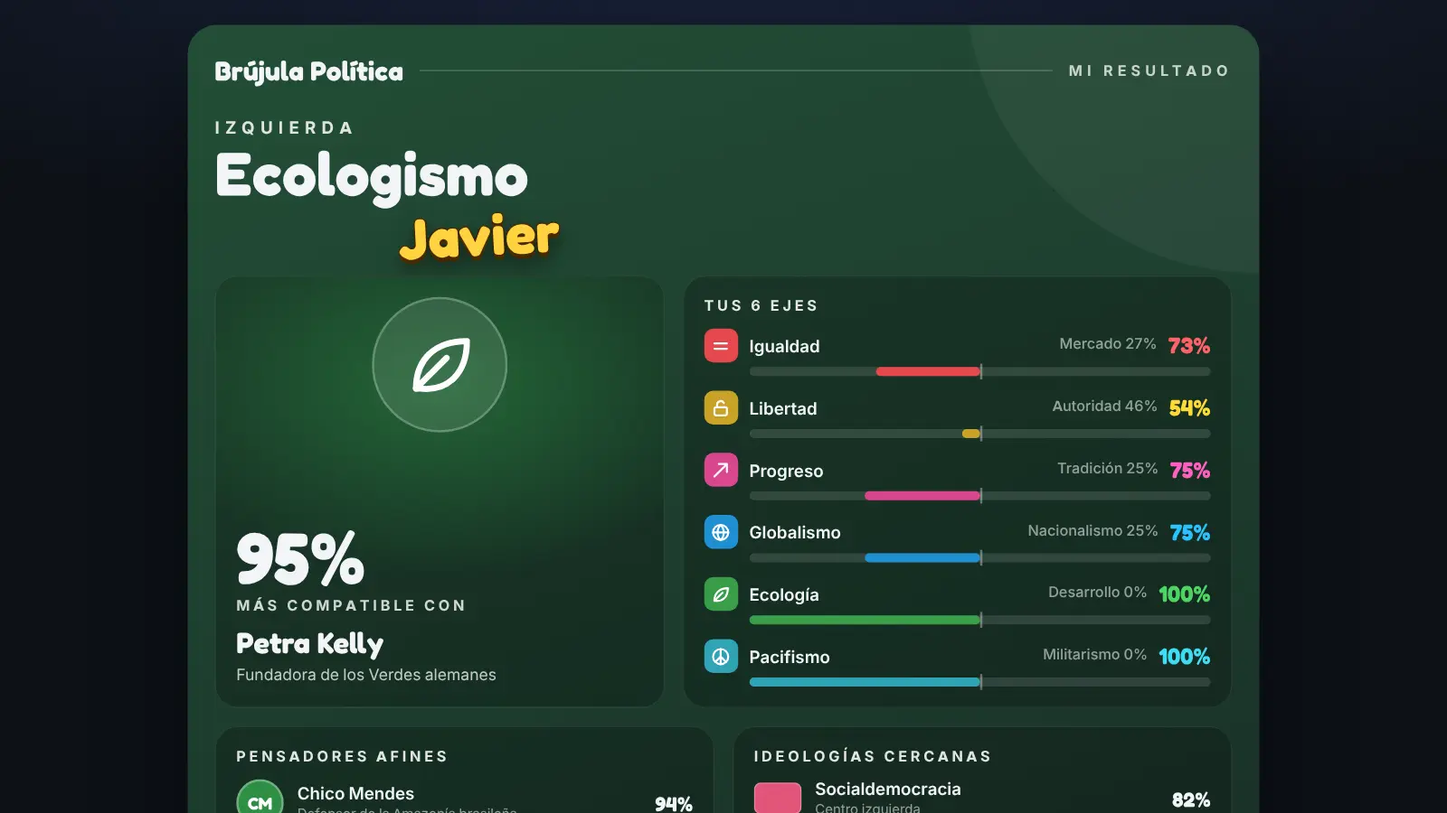
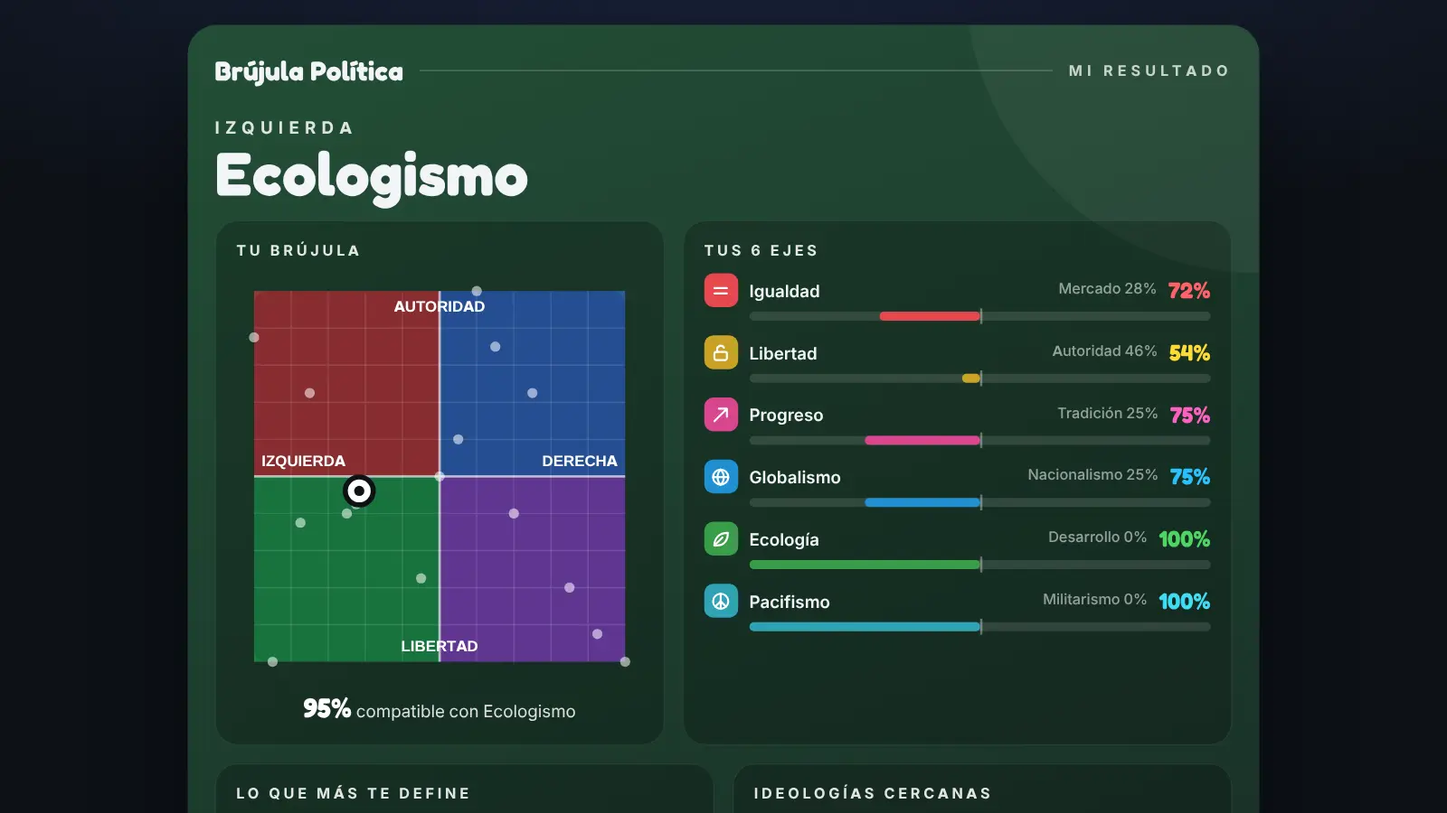
Brújula Política: brújula dentro de la tarjeta y 'De acuerdo' casi como 'Muy de acuerdo'
- De acuerdo / En desacuerdo valen 1.5 de 2; Neutral queda en el medio
  (un poco de ambos).
- Luz y agua: pregunta nueva de Estado y empresas privadas juntos.
- La tarjeta ya no lleva nombres (ni el del jugador ni pensadores): en su
  lugar la brújula y 'Lo que más te define'.

Claude-Session: https://claude.ai/code/session_01WWHYSR6KGzvo1D5ZSPkN5w

diff --git a/brujula-politica/index.html b/brujula-politica/index.html
@@ -88,17 +88,9 @@
   .card__head { position: relative; margin-top: 26px; }
   .card__lado { letter-spacing: 5px; font-weight: 700; font-size: 15px; text-transform: uppercase; color: rgba(255,255,255,.85); }
   .card__ideo { font-size: clamp(32px, 7vw, 54px); line-height: 1.02; margin-top: 4px; }
-  .card__name { position: relative; z-index: 2; display: inline-block; margin: -4px 0 -8px 18%; font: 700 clamp(30px, 7vw, 50px) 'Fred'; color: #ffd23f; transform: rotate(-3deg);
-    -webkit-text-stroke: 2px #4a2a00; paint-order: stroke fill; text-shadow: 0 4px 0 #4a2a00, 0 8px 18px rgba(0,0,0,.5); }
   .card__grid { position: relative; display: grid; grid-template-columns: minmax(0, .9fr) minmax(0, 1.1fr); gap: 16px; margin-top: 14px; }
   .box { background: rgba(0,0,0,.22); border: 1px solid rgba(255,255,255,.08); border-radius: 20px; padding: 18px; }
   .box h4 { letter-spacing: 3px; font-size: 13px; text-transform: uppercase; font-weight: 700; margin-bottom: 12px; color: rgba(255,255,255,.88); }
-  .match { display: flex; flex-direction: column; justify-content: flex-end; min-height: 300px; background: radial-gradient(90% 60% at 50% 25%, color-mix(in srgb, var(--c) 55%, transparent), transparent 75%), rgba(0,0,0,.22); }
-  .match__emb { width: 120px; height: 120px; margin: 0 auto auto; padding: 22px; border-radius: 50%; background: rgba(255,255,255,.1); border: 2px solid rgba(255,255,255,.25); color: #fff; }
-  .match__pct { font: 700 64px/1 'Fred'; margin-top: 20px; }
-  .match small { letter-spacing: 3px; font-weight: 700; font-size: 13px; text-transform: uppercase; color: rgba(255,255,255,.8); }
-  .match b { display: block; font: 700 26px 'Fred'; margin-top: 8px; }
-  .match p { color: rgba(255,255,255,.75); font-size: 14px; line-height: 1.45; margin-top: 4px; }
   .ax { display: grid; gap: 13px; }
   .ax__row { display: grid; grid-template-columns: 30px minmax(0, 1fr) auto; align-items: center; gap: 10px; }
   .ax__ic { width: 30px; height: 30px; border-radius: 8px; background: var(--k); display: grid; place-items: center; color: #fff; }
@@ -115,15 +107,18 @@
   .lst b { font-weight: 600; font-size: 15px; line-height: 1.2; }
   .lst b small { display: block; color: rgba(255,255,255,.55); font-weight: 400; font-size: 12px; margin-top: 2px; }
   .lst strong { font: 700 18px 'Fred'; }
-  .av { width: 42px; height: 42px; border-radius: 50%; display: grid; place-items: center; font: 700 15px 'Fred'; color: #fff; background: var(--k); border: 2px solid rgba(255,255,255,.3); }
+  .cpct { text-align: center; margin-top: 10px; font-size: 15px; color: rgba(255,255,255,.85); }
+  .cpct b { font: 700 24px 'Fred'; color: #fff; }
+  .lst--def div { grid-template-columns: 30px minmax(0, 1fr) auto; }
+  .lst--def b { font-weight: 500; font-size: 14px; line-height: 1.35; }
   .chip { width: 42px; height: 28px; border-radius: 6px; background: var(--k); border: 1px solid rgba(255,255,255,.3); }
   .card__foot { position: relative; display: flex; justify-content: space-between; gap: 10px; flex-wrap: wrap; margin-top: 18px; padding-top: 14px; border-top: 1px solid rgba(255,255,255,.2); letter-spacing: 4px; font-weight: 700; font-size: 12px; color: rgba(255,255,255,.75); }
 
-  .more { display: grid; grid-template-columns: minmax(0, 1fr) minmax(0, 1fr); gap: 16px; margin-top: 18px; }
+  .more { margin-top: 18px; }
   .panel { background: var(--bg2); border: 1px solid var(--line); border-radius: var(--r); padding: 18px; }
   .panel h3 { font-size: 19px; margin-bottom: 4px; }
   .panel > p { font-size: 14px; color: var(--mut); margin-bottom: 12px; line-height: 1.45; }
-  .compass { width: 100%; max-width: 340px; display: block; margin: 0 auto; }
+  .compass { width: 100%; max-width: 360px; display: block; margin: 0 auto; }
   .spec { position: relative; height: 18px; border-radius: 18px; margin: 30px 0 10px;
     background: linear-gradient(90deg, #b91c1c, #ef4444 20%, #f472b6 36%, #a3a3a3 50%, #60a5fa 64%, #2563eb 80%, #1e3a8a); }
   .spec i { position: absolute; top: 50%; width: 26px; height: 26px; margin: -13px 0 0 -13px; border-radius: 50%; background: #fff; border: 4px solid #0d1117; box-shadow: 0 0 0 2px #fff, 0 4px 14px rgba(0,0,0,.5); transition: left .8s cubic-bezier(.2,.8,.2,1); }
@@ -138,14 +133,8 @@
 
   @media (max-width: 720px) {
     .card { padding: 20px 16px 16px; border-radius: 22px; }
-    .card__grid, .card__low, .more { grid-template-columns: 1fr; }
-    .match { min-height: 0; flex-direction: row; flex-wrap: wrap; align-items: center; gap: 0 16px; }
-    .match__emb { width: 84px; height: 84px; padding: 16px; margin: 0; }
-    .match__pct { font-size: 52px; margin: 0; }
-    .match > div { flex: 1; min-width: 150px; }
-    .card__name { margin-left: 8%; }
-  }
-  @media (max-width: 420px) { .ax__lbl span { display: none; } }
+    .card__grid, .card__low { grid-template-columns: 1fr; }
+            @media (max-width: 420px) { .ax__lbl span { display: none; } }
   @media (max-width: 380px) {
     .wrap { padding: 16px 12px 32px; }
     .ans button { font-size: 15px; padding: 12px; }
@@ -166,12 +155,10 @@
         <path d="M50 14l9 36-9 36-9-36z" fill="#fff"/><path d="M50 14l9 36H41z" fill="#ef4444"/><circle cx="50" cy="50" r="5" fill="#0d1117"/>
       </svg>
       <h1>Brújula Política</h1>
-      <p>Responde 60 frases sobre economía, libertad, delitos y castigos, sociedad, el mundo, el planeta y la guerra. Al final verás tu ideología, tu lado político y con qué pensadores coincides más.</p>
+      <p>Responde 60 frases sobre economía, libertad, delitos y castigos, sociedad, el mundo, el planeta y la guerra. Al final verás tu ideología, tu lado político, tu lugar en la brújula y lo que más te define.</p>
       <div class="facts"><span>60 preguntas</span><span>6 ejes</span><span>16 ideologías</span><span>Unos 10 minutos</span></div>
     </div>
     <div class="start">
-      <label for="name">Tu nombre (sale en la tarjeta)</label>
-      <input id="name" maxlength="18" autocomplete="off" placeholder="Ej. Marco">
       <button class="btn btn--main" id="go">Empezar el test</button>
       <button class="btn" id="resume" hidden>Seguir donde me quedé</button>
     </div>
@@ -206,11 +193,6 @@
         <div class="spec" id="spec"><b></b><i></i></div>
         <div class="spec__lbl"><span>Extrema izq.</span><span>Izquierda</span><span>Centro</span><span>Derecha</span><span>Extrema der.</span></div>
         <p class="why" id="why"></p>
-      </div>
-      <div class="panel">
-        <h3>Brújula</h3>
-        <p>Izquierda o derecha en la economía, y autoridad o libertad en el gobierno. Los puntos chicos son las ideologías.</p>
-        <svg class="compass" id="compass" viewBox="0 0 320 320" role="img" aria-label="Tu posición en la brújula política"></svg>
       </div>
     </div>
     <div class="acts">
@@ -260,11 +242,11 @@ const Q = [
   ['Las empresas privadas administran mejor las cosas que el Estado.', { e: 1 }],
   ['Los que más ganan deberían pagar un porcentaje de impuestos mucho mayor que el resto.', { e: -1 }],
   ['El libre mercado es la mejor forma de sacar a la gente de la pobreza.', { e: 1 }],
-  ['El agua, la luz y el gas deberían ser siempre del Estado, no de empresas privadas.', { e: -1 }],
+  ['El agua, la luz y el gas deberían ser sólo del Estado, sin ninguna empresa privada.', { e: -1 }],
   ['Si tengo dos celulares y alguien no tiene ninguno, debería regalarle uno.', { e: -1 }],
   ['Si tuviera una empresa, el Estado no debería decirme cuánto pagarles a mis trabajadores.', { e: 1, a: -.3 }],
   ['Las minas, las grandes empresas y las tierras deberían pasar a manos del pueblo.', { e: -1, a: .3 }],
-  ['Cada uno debería poder dejarle toda su fortuna a sus hijos sin pagar impuestos por eso.', { e: 1 }],
+  ['Lo mejor para la luz y el agua es que el Estado y empresas privadas las manejen juntos, con reglas claras.', { e: .5 }],
   ['Si tuviera 10 casas, regalaría algunas a familias que no tienen dónde vivir.', { e: -1 }],
   ['Si gané mi plata trabajando duro, es justo quedarme con casi toda, aunque otros tengan mucho menos.', { e: 1 }],
   ['El Estado debería fijar el precio de los productos básicos como el arroz o el pan.', { e: -1, a: .3 }],
@@ -330,65 +312,64 @@ const ORDER = (() => {
   for (let r = 0; out.length < Q.length; r++) for (const g of groups) if (g[r] !== undefined) out.push(g[r]);
   return out;
 })();
+// "De acuerdo" cuenta casi como "Muy de acuerdo"; "Neutral" queda justo en el medio (un poco de ambos)
 const OPTS = [
   ['Muy de acuerdo', 2, '#22c55e'],
-  ['De acuerdo', 1, '#86efac'],
-  ['Neutral / no sé', 0, '#cbd5e1'],
-  ['En desacuerdo', -1, '#fca5a5'],
+  ['De acuerdo', 1.5, '#86efac'],
+  ['Neutral / un poco de ambos', 0, '#cbd5e1'],
+  ['En desacuerdo', -1.5, '#fca5a5'],
   ['Muy en desacuerdo', -2, '#ef4444'],
 ];
 
 /* ---------- ideologías: posición en los 6 ejes ---------- */
 const IDEOS = [
   { id: 'comunismo', n: 'Comunismo', lado: 'Extrema izquierda', c: '#c81e1e', ic: 'aut', p: { e: -1, a: .75, s: 0, n: .2, v: .4, m: .5 },
-    d: 'Quiere abolir la propiedad privada de empresas y tierras: todo es del Estado o de la comunidad, y un partido único dirige la economía.',
-    f: [['Karl Marx', 'Filósofo y economista alemán'], ['Vladímir Lenin', 'Líder de la Revolución rusa']] },
+    d: 'Quiere abolir la propiedad privada de empresas y tierras: todo es del Estado o de la comunidad, y un partido único dirige la economía.' },
   { id: 'anarquismo', n: 'Anarquismo', lado: 'Extrema izquierda', c: '#1f1f1f', ic: 'lib', p: { e: -.9, a: -1, s: -.7, n: -.8, v: -.4, m: -.8 },
-    d: 'Rechaza el Estado y toda autoridad: propone comunidades libres que se organizan solas y comparten lo que producen.',
-    f: [['Piotr Kropotkin', 'Pensador anarquista ruso'], ['Mijaíl Bakunin', 'Revolucionario ruso']] },
+    d: 'Rechaza el Estado y toda autoridad: propone comunidades libres que se organizan solas y comparten lo que producen.' },
   { id: 'socialismo', n: 'Socialismo democrático', lado: 'Izquierda', c: '#e0313a', ic: 'igual', p: { e: -.75, a: -.25, s: -.5, n: -.1, v: -.3, m: -.5 },
-    d: 'Busca que los trabajadores y el Estado controlen los sectores clave de la economía, pero mediante elecciones y con libertades.',
-    f: [['José Carlos Mariátegui', 'Pensador socialista peruano'], ['Salvador Allende', 'Presidente de Chile (1970-1973)']] },
+    d: 'Busca que los trabajadores y el Estado controlen los sectores clave de la economía, pero mediante elecciones y con libertades.' },
   { id: 'ecologismo', n: 'Ecologismo', lado: 'Izquierda', c: '#2f8f46', ic: 'eco', p: { e: -.5, a: -.2, s: -.6, n: -.5, v: -1, m: -.85 },
-    d: 'Pone al planeta primero: frenar el cambio climático, proteger bosques y ríos y repartir mejor la riqueza.',
-    f: [['Petra Kelly', 'Fundadora de los Verdes alemanes'], ['Chico Mendes', 'Defensor de la Amazonía brasileña']] },
+    d: 'Pone al planeta primero: frenar el cambio climático, proteger bosques y ríos y repartir mejor la riqueza.' },
   { id: 'nacpop', n: 'Nacionalismo de izquierda', lado: 'Izquierda', c: '#b4462a', ic: 'nac', p: { e: -.7, a: .45, s: .15, n: .8, v: .3, m: .35 },
-    d: 'Mezcla la defensa de lo nacional con un Estado fuerte que nacionaliza recursos y reparte la riqueza.',
-    f: [['Juan Velasco Alvarado', 'Presidente del Perú (1968-1975)'], ['Lázaro Cárdenas', 'Presidente de México (1934-1940)']] },
+    d: 'Mezcla la defensa de lo nacional con un Estado fuerte que nacionaliza recursos y reparte la riqueza.' },
   { id: 'socialdemocracia', n: 'Socialdemocracia', lado: 'Centro izquierda', c: '#e2557a', ic: 'igual', p: { e: -.45, a: -.15, s: -.4, n: -.3, v: -.3, m: -.3 },
-    d: 'Acepta el mercado, pero con un Estado de bienestar grande: salud, educación y pensiones para todos, pagadas con impuestos.',
-    f: [['Olof Palme', 'Primer ministro de Suecia'], ['Clement Attlee', 'Primer ministro británico']] },
+    d: 'Acepta el mercado, pero con un Estado de bienestar grande: salud, educación y pensiones para todos, pagadas con impuestos.' },
   { id: 'progresismo', n: 'Liberalismo progresista', lado: 'Centro izquierda', c: '#d9468f', ic: 'prog', p: { e: -.1, a: -.55, s: -.8, n: -.6, v: -.35, m: -.35 },
-    d: 'Defiende las libertades personales, los derechos de las minorías y la apertura al mundo, con algo de ayuda del Estado.',
-    f: [['John Stuart Mill', 'Filósofo liberal inglés'], ['John Rawls', 'Filósofo de la justicia']] },
+    d: 'Defiende las libertades personales, los derechos de las minorías y la apertura al mundo, con algo de ayuda del Estado.' },
   { id: 'centro', n: 'Centrismo', lado: 'Centro', c: '#64748b', ic: 'igual', p: { e: 0, a: 0, s: 0, n: 0, v: 0, m: 0 },
-    d: 'Evita los extremos: toma ideas de la izquierda y de la derecha según cada problema y busca acuerdos.',
-    f: [['Aristóteles', 'Filósofo griego del justo medio'], ['Montesquieu', 'Pensador de la división de poderes']] },
+    d: 'Evita los extremos: toma ideas de la izquierda y de la derecha según cada problema y busca acuerdos.' },
   { id: 'libcentro', n: 'Centrismo liberal', lado: 'Centro', c: '#475569', ic: 'glob', p: { e: .4, a: -.2, s: -.2, n: -.5, v: .2, m: .1 },
-    d: 'Economía de mercado abierta al mundo, instituciones fuertes y cambios graduales, sin ir a ningún extremo.',
-    f: [['Alexis de Tocqueville', 'Pensador liberal francés'], ['Raymond Aron', 'Sociólogo liberal francés']] },
+    d: 'Economía de mercado abierta al mundo, instituciones fuertes y cambios graduales, sin ir a ningún extremo.' },
   { id: 'dc', n: 'Democracia cristiana', lado: 'Centro derecha', c: '#d97706', ic: 'trad', p: { e: .1, a: .2, s: .65, n: 0, v: 0, m: .1 },
-    d: 'Une valores cristianos y familia con una economía de mercado que también ayuda a los más pobres.',
-    f: [['Konrad Adenauer', 'Canciller de Alemania'], ['Alcide De Gasperi', 'Primer ministro de Italia']] },
+    d: 'Une valores cristianos y familia con una economía de mercado que también ayuda a los más pobres.' },
   { id: 'libclasico', n: 'Liberalismo clásico', lado: 'Centro derecha', c: '#ca8a04', ic: 'merc', p: { e: .7, a: -.6, s: .1, n: -.4, v: .4, m: -.1 },
-    d: 'Libertad individual, propiedad privada y libre comercio, con un Estado pequeño que asegure la ley y el orden.',
-    f: [['Adam Smith', 'Padre de la economía moderna'], ['John Locke', 'Filósofo de los derechos naturales']] },
+    d: 'Libertad individual, propiedad privada y libre comercio, con un Estado pequeño que asegure la ley y el orden.' },
   { id: 'conservadurismo', n: 'Conservadurismo', lado: 'Derecha', c: '#1d4ed8', ic: 'trad', p: { e: .5, a: .45, s: .8, n: .45, v: .35, m: .55 },
-    d: 'Valora la tradición, la familia, la religión y el orden; prefiere cambios lentos y un mercado libre.',
-    f: [['Edmund Burke', 'Padre del conservadurismo'], ['Winston Churchill', 'Primer ministro británico']] },
-  { id: 'libertarismo', n: 'Libertarismo', lado: 'Derecha', c: '#eab308', ic: 'lib', p: { e: .7, a: -.7, s: 0, n: -.3, v: .4, m: -.3 },
-    d: 'El Estado debe ser mínimo: bajos impuestos, libre mercado total y que cada adulto decida sobre su vida.',
-    f: [['Milton Friedman', 'Economista estadounidense'], ['Robert Nozick', 'Filósofo estadounidense']] },
+    d: 'Valora la tradición, la familia, la religión y el orden; prefiere cambios lentos y un mercado libre.' },
+  { id: 'libertarismo', n: 'Libertarismo', lado: 'Derecha', c: '#eab308', ic: 'lib', p: { e: .85, a: -.85, s: -.3, n: -.3, v: .4, m: -.3 },
+    d: 'El Estado debe ser mínimo: bajos impuestos, libre mercado total y que cada adulto decida sobre su vida.' },
   { id: 'ancap', n: 'Anarcocapitalismo', lado: 'Extrema derecha', c: '#a16207', ic: 'merc', p: { e: 1, a: -1, s: 0, n: -.6, v: .6, m: -.6 },
-    d: 'Propone eliminar el Estado y que todo, hasta la seguridad y la justicia, lo den empresas privadas en un mercado libre.',
-    f: [['Murray Rothbard', 'Economista estadounidense'], ['David Friedman', 'Economista estadounidense']] },
+    d: 'Propone eliminar el Estado y que todo, hasta la seguridad y la justicia, lo den empresas privadas en un mercado libre.' },
   { id: 'nacconserv', n: 'Nacionalismo conservador', lado: 'Derecha', c: '#1e3a8a', ic: 'nac', p: { e: .3, a: .7, s: .8, n: .9, v: .6, m: .8 },
-    d: 'La nación por encima de todo: fronteras firmes, tradición, ejército fuerte y un gobierno con mano firme.',
-    f: [['Charles de Gaulle', 'Presidente de Francia'], ['Otto von Bismarck', 'Canciller de Alemania']] },
+    d: 'La nación por encima de todo: fronteras firmes, tradición, ejército fuerte y un gobierno con mano firme.' },
   { id: 'autoritarismo', n: 'Nacionalismo autoritario', lado: 'Extrema derecha', c: '#0b1a4a', ic: 'aut', p: { e: .2, a: 1, s: 1, n: 1, v: .6, m: 1 },
-    d: 'Un líder o partido con todo el poder, sin oposición, que impone el orden, la tradición y la grandeza de la nación.',
-    f: [['Francisco Franco', 'Dictador de España (1939-1975)'], ['Charles Maurras', 'Pensador nacionalista francés']] },
+    d: 'Un líder o partido con todo el poder, sin oposición, que impone el orden, la tradición y la grandeza de la nación.' },
 ];
+const DEF = {
+  Igualdad: 'Quieres que la riqueza se reparta más y que el Estado ayude a los que menos tienen.',
+  Mercado: 'Confías en el libre mercado y en la empresa privada.',
+  Libertad: 'Defiendes la libertad de cada persona frente al Estado.',
+  Autoridad: 'Prefieres un Estado firme, con orden y castigos duros.',
+  Progreso: 'Apoyas los cambios en la sociedad y los nuevos derechos.',
+  'Tradición': 'Valoras la familia, la fe y las costumbres.',
+  Globalismo: 'Eres abierto al mundo, al comercio y a los extranjeros.',
+  Nacionalismo: 'Pones a tu país primero y quieres fronteras firmes.',
+  'Ecología': 'Para ti el planeta va antes que el crecimiento.',
+  Desarrollo: 'Para ti el crecimiento y las obras van primero.',
+  Pacifismo: 'Rechazas la guerra y prefieres gastar en educación.',
+  Militarismo: 'Quieres un ejército fuerte y listo para defender.',
+};
 const W = { e: 1.35, a: 1.2, s: 1.15, n: .9, v: .8, m: .8 };
 const LADOS = ['Extrema izquierda', 'Izquierda', 'Centro izquierda', 'Centro', 'Centro derecha', 'Derecha', 'Extrema derecha'];
 
@@ -433,7 +414,6 @@ function show(id) { document.querySelectorAll('.scr').forEach(s => s.classList.t
 
 /* ---------- inicio ---------- */
 function renderHome() {
-  $('#name').value = S.name || '';
   const answered = S.answers.filter(v => v !== null && v !== undefined).length;
   $('#resume').hidden = !(answered > 0 && answered < Q.length);
   $('#resume').textContent = `Seguir donde me quedé (${answered}/${Q.length})`;
@@ -443,11 +423,10 @@ function renderHome() {
     const d = new Date(h.t);
     return `<button data-h="${S.history.length - 1 - k}"><i style="background:${i.c}"></i><b>${esc(i.n)} <span class="mut">· ${esc(h.lado)}</span></b><small>${h.pct}% · ${d.toLocaleDateString('es-PE', { day: 'numeric', month: 'short' })}</small></button>`;
   }).join('');
-  $('#ideos').innerHTML = IDEOS.map(i => `<div class="ideo" style="--c:${i.c === '#1f1f1f' || i.c === '#0b1a4a' ? '#94a3b8' : i.c}"><h3>${esc(i.n)}</h3><em>${esc(i.lado)}</em><p>${esc(i.d)}</p><small>Pensadores: ${i.f.map(f => esc(f[0])).join(', ')}</small></div>`).join('');
+  $('#ideos').innerHTML = IDEOS.map(i => `<div class="ideo" style="--c:${i.c === '#1f1f1f' || i.c === '#0b1a4a' ? '#94a3b8' : i.c}"><h3>${esc(i.n)}</h3><em>${esc(i.lado)}</em><p>${esc(i.d)}</p></div>`).join('');
   show('s-home');
 }
 function start(fresh) {
-  S.name = $('#name').value.trim().slice(0, 18);
   if (fresh) { S.answers = Array(Q.length).fill(null); S.idx = 0; }
   else S.idx = Math.max(0, ORDER.findIndex(i => S.answers[i] === null || S.answers[i] === undefined));
   save(); renderQ(); show('s-quiz');
@@ -477,7 +456,7 @@ function answer(v) {
 }
 function finish() {
   const sc = scores(S.answers), rk = ranking(sc);
-  S.history.push({ t: Date.now(), id: rk[0].i.id, pct: rk[0].pct, lado: side(sc).lado, sc, name: S.name });
+  S.history.push({ t: Date.now(), id: rk[0].i.id, pct: rk[0].pct, lado: side(sc).lado, sc });
   if (S.history.length > 30) S.history = S.history.slice(-30);
   S.answers = []; S.idx = 0; save();
   renderRes(S.history[S.history.length - 1]);
@@ -496,29 +475,25 @@ function renderRes(h) {
     return `<div class="ax__row" style="--k:${side.c}"><span class="ax__ic">${svg(side.ic)}</span><span class="ax__lbl">${side.n}<span>${v >= 0 ? ax.neg.n : ax.pos.n} ${100 - pct}%</span></span><span class="ax__pct">${pct}%</span><span class="ax__bar"><u></u><i style="left:${left}%;width:${Math.max(w, 1.5)}%"></i></span></div>`;
   }).join('');
   const near = rk.slice(1, 4).map(r => `<div style="--k:${r.i.c}"><span class="chip"></span><b>${esc(r.i.n)}<small>${esc(r.i.lado)}</small></b><strong>${r.pct}%</strong></div>`).join('');
-  // pensadores: el segundo de tu ideología y los de las dos siguientes
-  const people = [[ideo.f[1], ideo, top.pct - 1], [rk[1].i.f[0], rk[1].i, rk[1].pct], [rk[2].i.f[0], rk[2].i, rk[2].pct]];
-  const ini = n => n.split(' ').filter(w => /^[A-ZÁÉÍÓÚ]/.test(w)).slice(0, 2).map(w => w[0]).join('');
-  const peo = people.map(([f, i, p]) => `<div style="--k:${i.c}"><span class="av">${ini(f[0])}</span><b>${esc(f[0])}<small>${esc(f[1])}</small></b><strong>${p}%</strong></div>`).join('');
-  const [fig, figDesc] = ideo.f[0];
+  const def = AXES.map(ax => ({ ax, v: sc[ax.k] })).sort((a, b) => Math.abs(b.v) - Math.abs(a.v)).slice(0, 3).map(({ ax, v }) => {
+    const p = v >= 0 ? ax.pos : ax.neg;
+    return `<div style="--k:${p.c}"><span class="ax__ic">${svg(p.ic)}</span><b>${esc(DEF[p.n])}</b><strong>${Math.round(50 + 50 * Math.abs(v))}%</strong></div>`;
+  }).join('');
   card.innerHTML = `
     <div class="card__top"><span class="card__brand">Brújula Política</span><hr><span>MI RESULTADO</span></div>
     <div class="card__head">
       <div class="card__lado">${esc(lado)}</div>
       <h2 class="card__ideo">${esc(ideo.n)}</h2>
-      ${h.name ? `<div class="card__name">${esc(h.name)}</div>` : ''}
     </div>
     <div class="card__grid">
-      <div class="box match">
-        <span class="match__emb">${svg(ideo.ic, 1.8)}</span>
-        <div><div class="match__pct">${top.pct}%</div>
-        <small>Más compatible con</small>
-        <b>${esc(fig)}</b><p>${esc(figDesc)}</p></div>
+      <div class="box"><h4>Tu brújula</h4>
+        <svg class="compass" id="compass" viewBox="0 0 320 320" role="img" aria-label="Tu posición en la brújula política"></svg>
+        <p class="cpct"><b>${top.pct}%</b> compatible con ${esc(ideo.n)}</p>
       </div>
       <div class="box"><h4>Tus 6 ejes</h4><div class="ax">${axRows}</div></div>
     </div>
     <div class="card__low">
-      <div class="box"><h4>Pensadores afines</h4><div class="lst">${peo}</div></div>
+      <div class="box"><h4>Lo que más te define</h4><div class="lst lst--def">${def}</div></div>
       <div class="box"><h4>Ideologías cercanas</h4><div class="lst">${near}</div></div>
     </div>
     <div class="card__foot"><span>DESCUBRE TU IDEOLOGÍA</span><span>ANONYMOUS GAMES</span></div>`;
@@ -550,7 +525,7 @@ function copyRes() {
   if (!last) return;
   const rk = ranking(last.sc), top = rk[0];
   const ax = AXES.map(a => { const v = last.sc[a.k]; return `${(v >= 0 ? a.pos : a.neg).n} ${Math.round(50 + 50 * Math.abs(v))}%`; }).join(' · ');
-  const txt = `${last.name ? last.name + ': ' : ''}${top.i.n} (${top.pct}%) · ${side(last.sc).lado}\n${ax}\nBrújula Política · Anonymous Games`;
+  const txt = `${top.i.n} (${top.pct}%) · ${side(last.sc).lado}\n${ax}\nBrújula Política · Anonymous Games`;
   const ok = () => toast('Resultado copiado'), no = () => toast('No se pudo copiar');
   if (navigator.clipboard && navigator.clipboard.writeText) navigator.clipboard.writeText(txt).then(ok, no);
   else no();
@@ -559,11 +534,10 @@ function copyRes() {
 /* ---------- eventos ---------- */
 $('#go').onclick = () => start(true);
 $('#resume').onclick = () => start(false);
-$('#name').addEventListener('keydown', e => { if (e.key === 'Enter') start(true); });
 $('#ans').onclick = e => { const b = e.target.closest('button'); if (b) answer(+b.dataset.v); };
 $('#back').onclick = () => { if (S.idx > 0) { S.idx--; save(); renderQ(); } };
 $('#exit').onclick = () => { save(); renderHome(); };
-$('#again').onclick = () => { $('#name').value = S.name || ''; start(true); };
+$('#again').onclick = () => start(true);
 $('#home').onclick = renderHome;
 $('#copy').onclick = copyRes;
 $('#hist').onclick = e => { const b = e.target.closest('[data-h]'); if (b) renderRes(S.history[+b.dataset.h]); };

diff --git a/portal/games.js b/portal/games.js
@@ -448,7 +448,7 @@ const GAMES = [
     id: 'brujula-politica',
     title: 'Brújula Política',
     tagline: '60 preguntas para descubrir tu ideología',
-    desc: 'Responde 60 frases sobre economía, libertad, delitos y castigos, sociedad, el mundo, el planeta y la guerra. Al final ves tu ideología entre 16 (de comunismo a anarcocapitalismo), tu lado político de extrema izquierda a extrema derecha, tus 6 ejes, una brújula y los pensadores con los que más coincides, en una tarjeta con tu nombre.',
+    desc: 'Responde 60 frases sobre economía, libertad, delitos y castigos, sociedad, el mundo, el planeta y la guerra. Al final ves tu ideología entre 16 (de comunismo a anarcocapitalismo), tu lado político de extrema izquierda a extrema derecha, tus 6 ejes, tu lugar en la brújula y lo que más te define.',
     url: 'brujula-politica/index.html',
     cover: 'portal/img/brujula-cover.webp',
     box: 'portal/img/brujula-politica-box.webp',
@@ -483,7 +483,7 @@ const GAMES = [
 
 // Novedades que se muestran en el inicio (la más nueva primero).
 const NEWS = [
-  { game: 'brujula-politica', date: '11 oct', title: 'Juego nuevo: Brújula Política', items: ['60 preguntas sobre economía, libertad, delitos y castigos, sociedad, el mundo, el planeta y la guerra', '16 ideologías y tu lado, de extrema izquierda a extrema derecha', 'Tarjeta de resultado con tu nombre, tus 6 ejes y una brújula'] },
+  { game: 'brujula-politica', date: '11 oct', title: 'Juego nuevo: Brújula Política', items: ['60 preguntas sobre economía, libertad, delitos y castigos, sociedad, el mundo, el planeta y la guerra', '16 ideologías y tu lado, de extrema izquierda a extrema derecha', 'Tarjeta de resultado con tu brújula, tus 6 ejes y lo que más te define'] },
   { game: 'codigo-rojo', date: '11 oct', title: 'Código Rojo: cabina, nitro y estrellas', items: ['Cabina por dentro con relojes, volante y mapa', 'Nitro, marcas de llantas, humo y fuego', 'Garaje en vitrina, 3 estrellas por misión y patrulleros más listos'] },
   { game: 'codigo-rojo', date: '11 oct', title: 'Código Rojo se ve como juego profesional', items: ['Carros nuevos con reflejos, faros y brillo', 'Barrio con más detalle: casas, carros estacionados, postes y nubes', 'Menú y velocímetro nuevos'] },
   { game: 'codigo-rojo', date: '11 oct', title: 'Juego nuevo: Código Rojo', items: ['Barrio 3D con puentes, túnel, rampas, semáforos y tráfico', 'Sé el ladrón contra 3 patrulleros o la policía', '14 misiones, partida libre y garaje con 6 carros'] },
